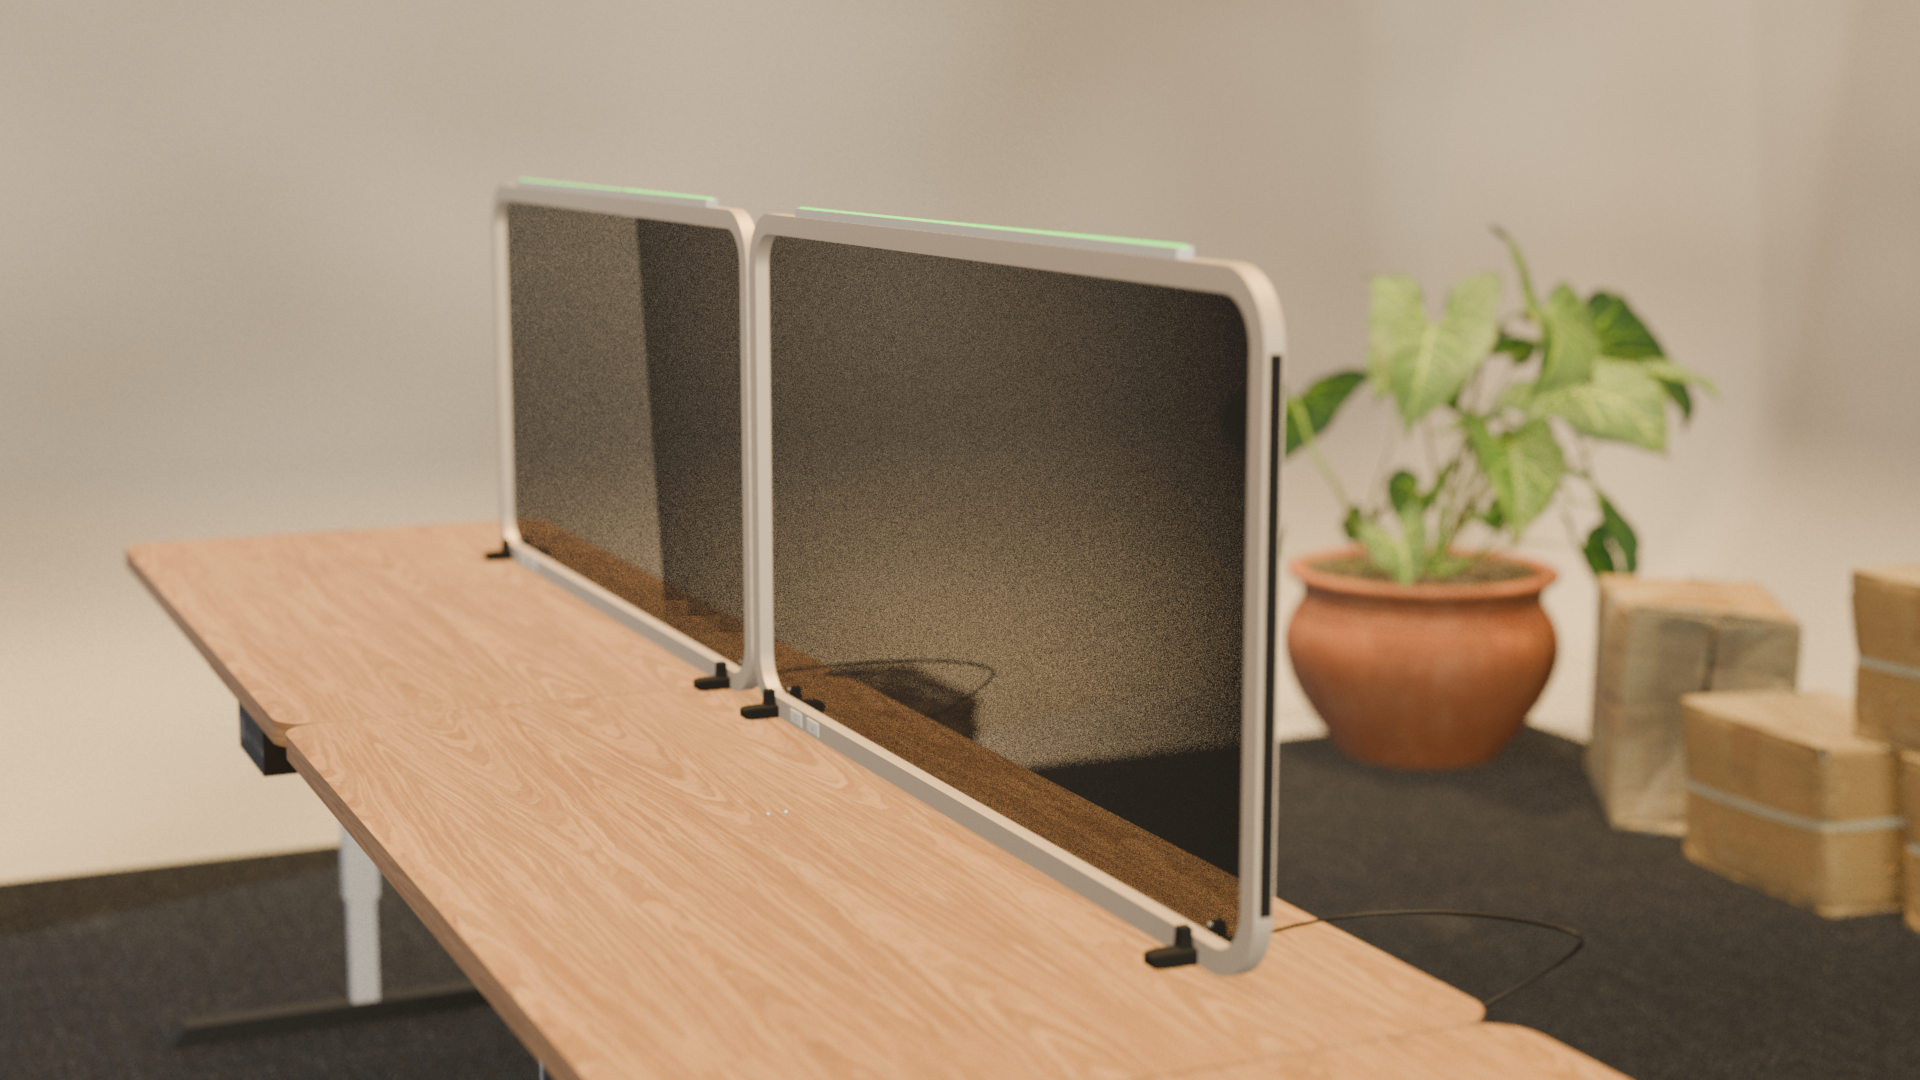
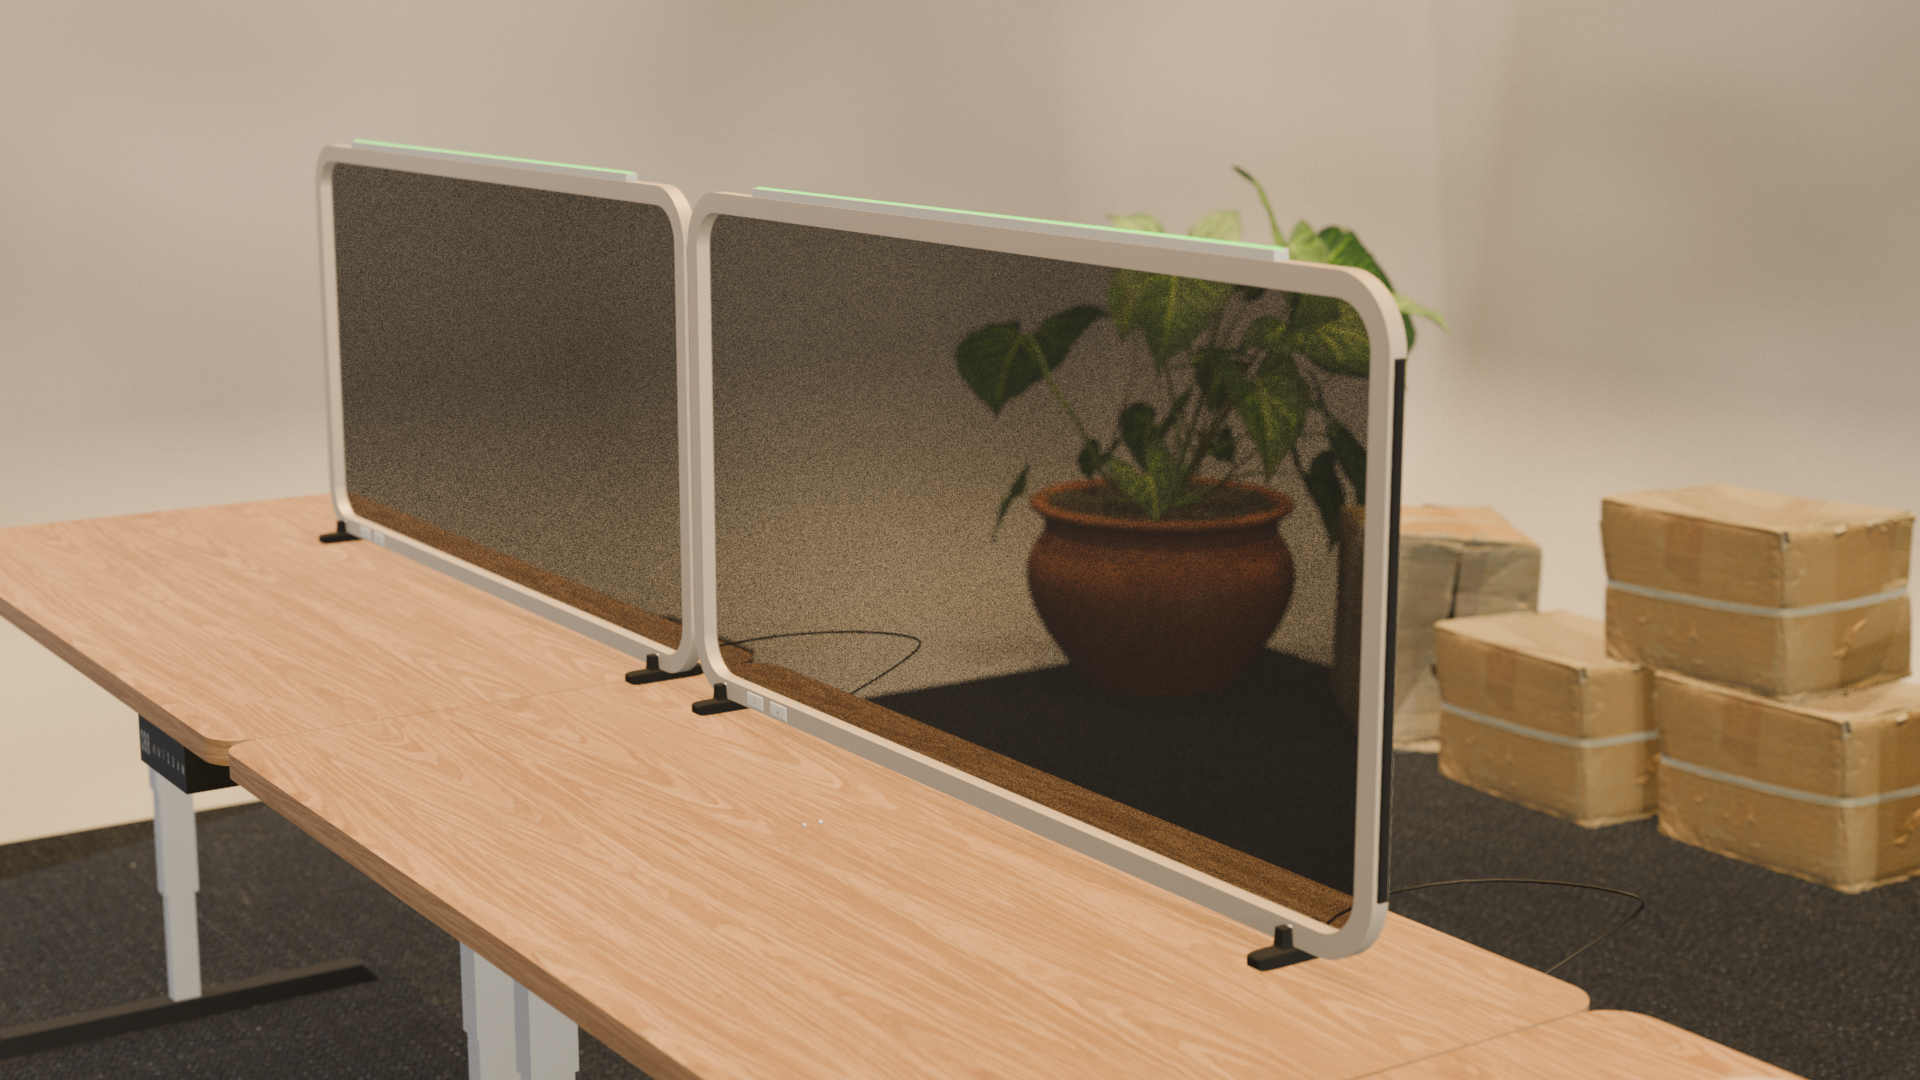
screen

diff --git a/app/screenPage/page.tsx b/app/screenPage/page.tsx
@@ -1,13 +1,18 @@
 "use client";
 
-import { useState } from "react";
+import { useState, useEffect, use } from "react";
 import Screen from "./Screen";
+import Support from "./Support";
 
 export default function ScreenPage() {
   const [openImage, setOpenImage] = useState<string | null>(null);
 
   const [color, setColor] = useState<string>("green");
   const [alpha, setAlpha] = useState<string>("mid");
+  const [model, setModel] = useState<string>("screen");
+  const [autoRotate, setAutoRotate] = useState<boolean>(false);
+
+  const [isPanelOpen, setIsPanelOpen] = useState<boolean>(true);
 
   const images = [
     { id: 1, src: "/screen_photo1.png" },
@@ -23,13 +28,33 @@ export default function ScreenPage() {
   ];
 
   const colors = ["green", "blue", "orange", "purple"];
-
   const allAlpha = ["low", "mid", "high"];
+  const models = ["screen", "support"];
+
+  const [isMobile, setIsMobile] = useState(false);
+  useEffect(() => {
+    const handleResize = () => {
+      setIsMobile(window.innerWidth < 768);
+
+      if (isMobile) {
+        setIsPanelOpen(true);
+      }
+    };
+
+    handleResize();
+    window.addEventListener('resize', handleResize);
+    return () => window.removeEventListener('resize', handleResize);
+  }, []);
 
   return (
     <main className="relative w-full h-screen overflow-hidden bg-[#808080] flex items-center justify-center">
       {/* 3D */}
-      <Screen color={color} alpha={alpha} />
+      {model === "screen" && (
+        <Screen color={color} alpha={alpha} autoRotate={autoRotate} />
+      )}
+      {model === "support" && (
+        <Support autoRotate={autoRotate} />
+      )}
 
       {/* 圖片側邊欄 */}
       <div className="absolute bottom-8 md:top-8 left-8 z-10 flex flex-row md:flex-col gap-4 bg-white/10 p-4 
@@ -53,48 +78,98 @@ export default function ScreenPage() {
 
       {/* 模型組合切換 */}
       <div className="absolute top-8 left-8 md:left-auto md:right-8 z-10 flex flex-col gap-4 bg-white/10 p-4 rounded-xl border border-white/20 shadow-lg backdrop-blur-md text-white text-sm max-w-[calc(100vw-4rem)] md:w-50">
-        
-        {/* 顏色選擇 */}
-        <div className="w-full flex flex-row md:flex-col gap-4 md:gap-0">
-          <p className="font-semibold mb-2 opacity-80">Color</p>
-          <div className="flex flex-row gap-2 overflow-x-auto md:overflow-x-visible flex-nowrap md:flex-wrap scrollbar-none [&::-webkit-scrollbar]:hidden">
-            {colors.map((c) => (
-              <button
-                key={c}
-                onClick={() => setColor(c)}
-                className={`px-3 py-1.5 rounded-md border capitalize transition text-xs shrink-0 cursor-pointer ${
-                  color === c
-                    ? "bg-white text-neutral-800 font-medium border-white"
-                    : "bg-black/20 border-white/30 hover:border-white"
-                }`}
-              >
-                {c}
-              </button>
-            ))}
-          </div>
-        </div>
+        {isPanelOpen && (
+          <>
+            {/* 顏色選擇 */}
+            <div className="w-full flex flex-row md:flex-col gap-4 md:gap-0">
+              <p className="font-semibold mb-2 opacity-80">Color</p>
+              <div className="flex flex-row gap-2 overflow-x-auto md:overflow-x-visible flex-nowrap md:flex-wrap scrollbar-none [&::-webkit-scrollbar]:hidden">
+                {colors.map((c) => (
+                  <button
+                    key={c}
+                    onClick={() => setColor(c)}
+                    className={`px-3 py-1.5 rounded-md border capitalize transition text-xs shrink-0 cursor-pointer ${color === c
+                      ? "bg-white text-neutral-800 font-medium border-white"
+                      : "bg-black/20 border-white/30 hover:border-white"
+                      }`}
+                  >
+                    {c}
+                  </button>
+                ))}
+              </div>
+            </div>
 
-        {/* 透明度選擇 */}
-        <div className="w-full flex flex-row md:flex-col gap-4 md:gap-0">
-          <p className="font-semibold mb-2 opacity-80">Alpha</p>
-          <div className="flex flex-row gap-2 overflow-x-auto md:overflow-x-visible flex-nowrap md:flex-wrap scrollbar-none [&::-webkit-scrollbar]:hidden">
-            {allAlpha.map((a) => (
+            {/* 透明度選擇 */}
+            <div className="w-full flex flex-row md:flex-col gap-4 md:gap-0">
+              <p className="font-semibold mb-2 opacity-80">Alpha</p>
+              <div className="flex flex-row gap-2 overflow-x-auto md:overflow-x-visible flex-nowrap md:flex-wrap scrollbar-none [&::-webkit-scrollbar]:hidden">
+                {allAlpha.map((a) => (
+                  <button
+                    key={a}
+                    onClick={() => setAlpha(a)}
+                    className={`px-3 py-1.5 rounded-md border capitalize transition text-xs shrink-0 cursor-pointer ${alpha === a
+                      ? "bg-white text-neutral-800 font-medium border-white"
+                      : "bg-black/20 border-white/30 hover:border-white"
+                      }`}
+                  >
+                    {a}
+                  </button>
+                ))}
+              </div>
+            </div>
+
+            {/* 模型選擇 */}
+            <div className="w-full flex flex-row md:flex-col gap-4 md:gap-0">
+              <p className="font-semibold mb-2 opacity-80">Model</p>
+              <div className="flex flex-row gap-2 overflow-x-auto md:overflow-x-visible flex-nowrap md:flex-wrap scrollbar-none [&::-webkit-scrollbar]:hidden">
+                {models.map((m) => (
+                  <button
+                    key={m}
+                    onClick={() => setModel(m)}
+                    className={`px-3 py-1.5 rounded-md border capitalize transition text-xs shrink-0 cursor-pointer ${model === m
+                      ? "bg-white text-neutral-800 font-medium border-white"
+                      : "bg-black/20 border-white/30 hover:border-white"
+                      }`}
+                  >
+                    {m}
+                  </button>
+                ))}
+              </div>
+            </div>
+
+            {/* 額外選擇 */}
+            <div className="w-full flex flex-row md:flex-col gap-2 md:gap-0 border-t border-white/20 pt-4">
+
+              {/* 自動旋轉 */}
               <button
-                key={a}
-                onClick={() => setAlpha(a)}
-                className={`px-3 py-1.5 rounded-md border capitalize transition text-xs shrink-0 cursor-pointer ${
-                  alpha === a
-                    ? "bg-white text-neutral-800 font-medium border-white"
-                    : "bg-black/20 border-white/30 hover:border-white"
-                }`}
+                onClick={() => setAutoRotate(!autoRotate)}
+                className={`px-3 py-1.5 rounded-md border transition text-xs shrink-0 cursor-pointer ${autoRotate ?
+                  "bg-white text-neutral-800 font-medium border-white"
+                  : "bg-black/20 border-white/30 hover:border-white"
+                  }`}
               >
-                {a}
+                Auto Rotate
               </button>
-            ))}
-          </div>
-        </div>
+
+            </div>
+          </>
+        )}
+
+        {/* 折疊按紐 */}
+        {isMobile && (
+          <button
+            onClick={() => setIsPanelOpen(!isPanelOpen)}
+            className={`${isPanelOpen ? 'absolute bottom-4 right-4' : ''} w-8 h-8 p-2 rounded-full transition`}
+          >
+              <span className="absolute top-1/2 left-1/2 transform -translate-x-1/2 -translate-y-1/2 text-white/70 text-xl font-bold">
+                {isPanelOpen ? '−' : '+'}
+              </span>
+              
+          </button>
+        )}
 
       </div>
+
 
       {/* 圖片視窗 */}
       {openImage && (
@@ -120,6 +195,8 @@ export default function ScreenPage() {
           </div>
         </div>
       )}
+
+
     </main>
   );
 }